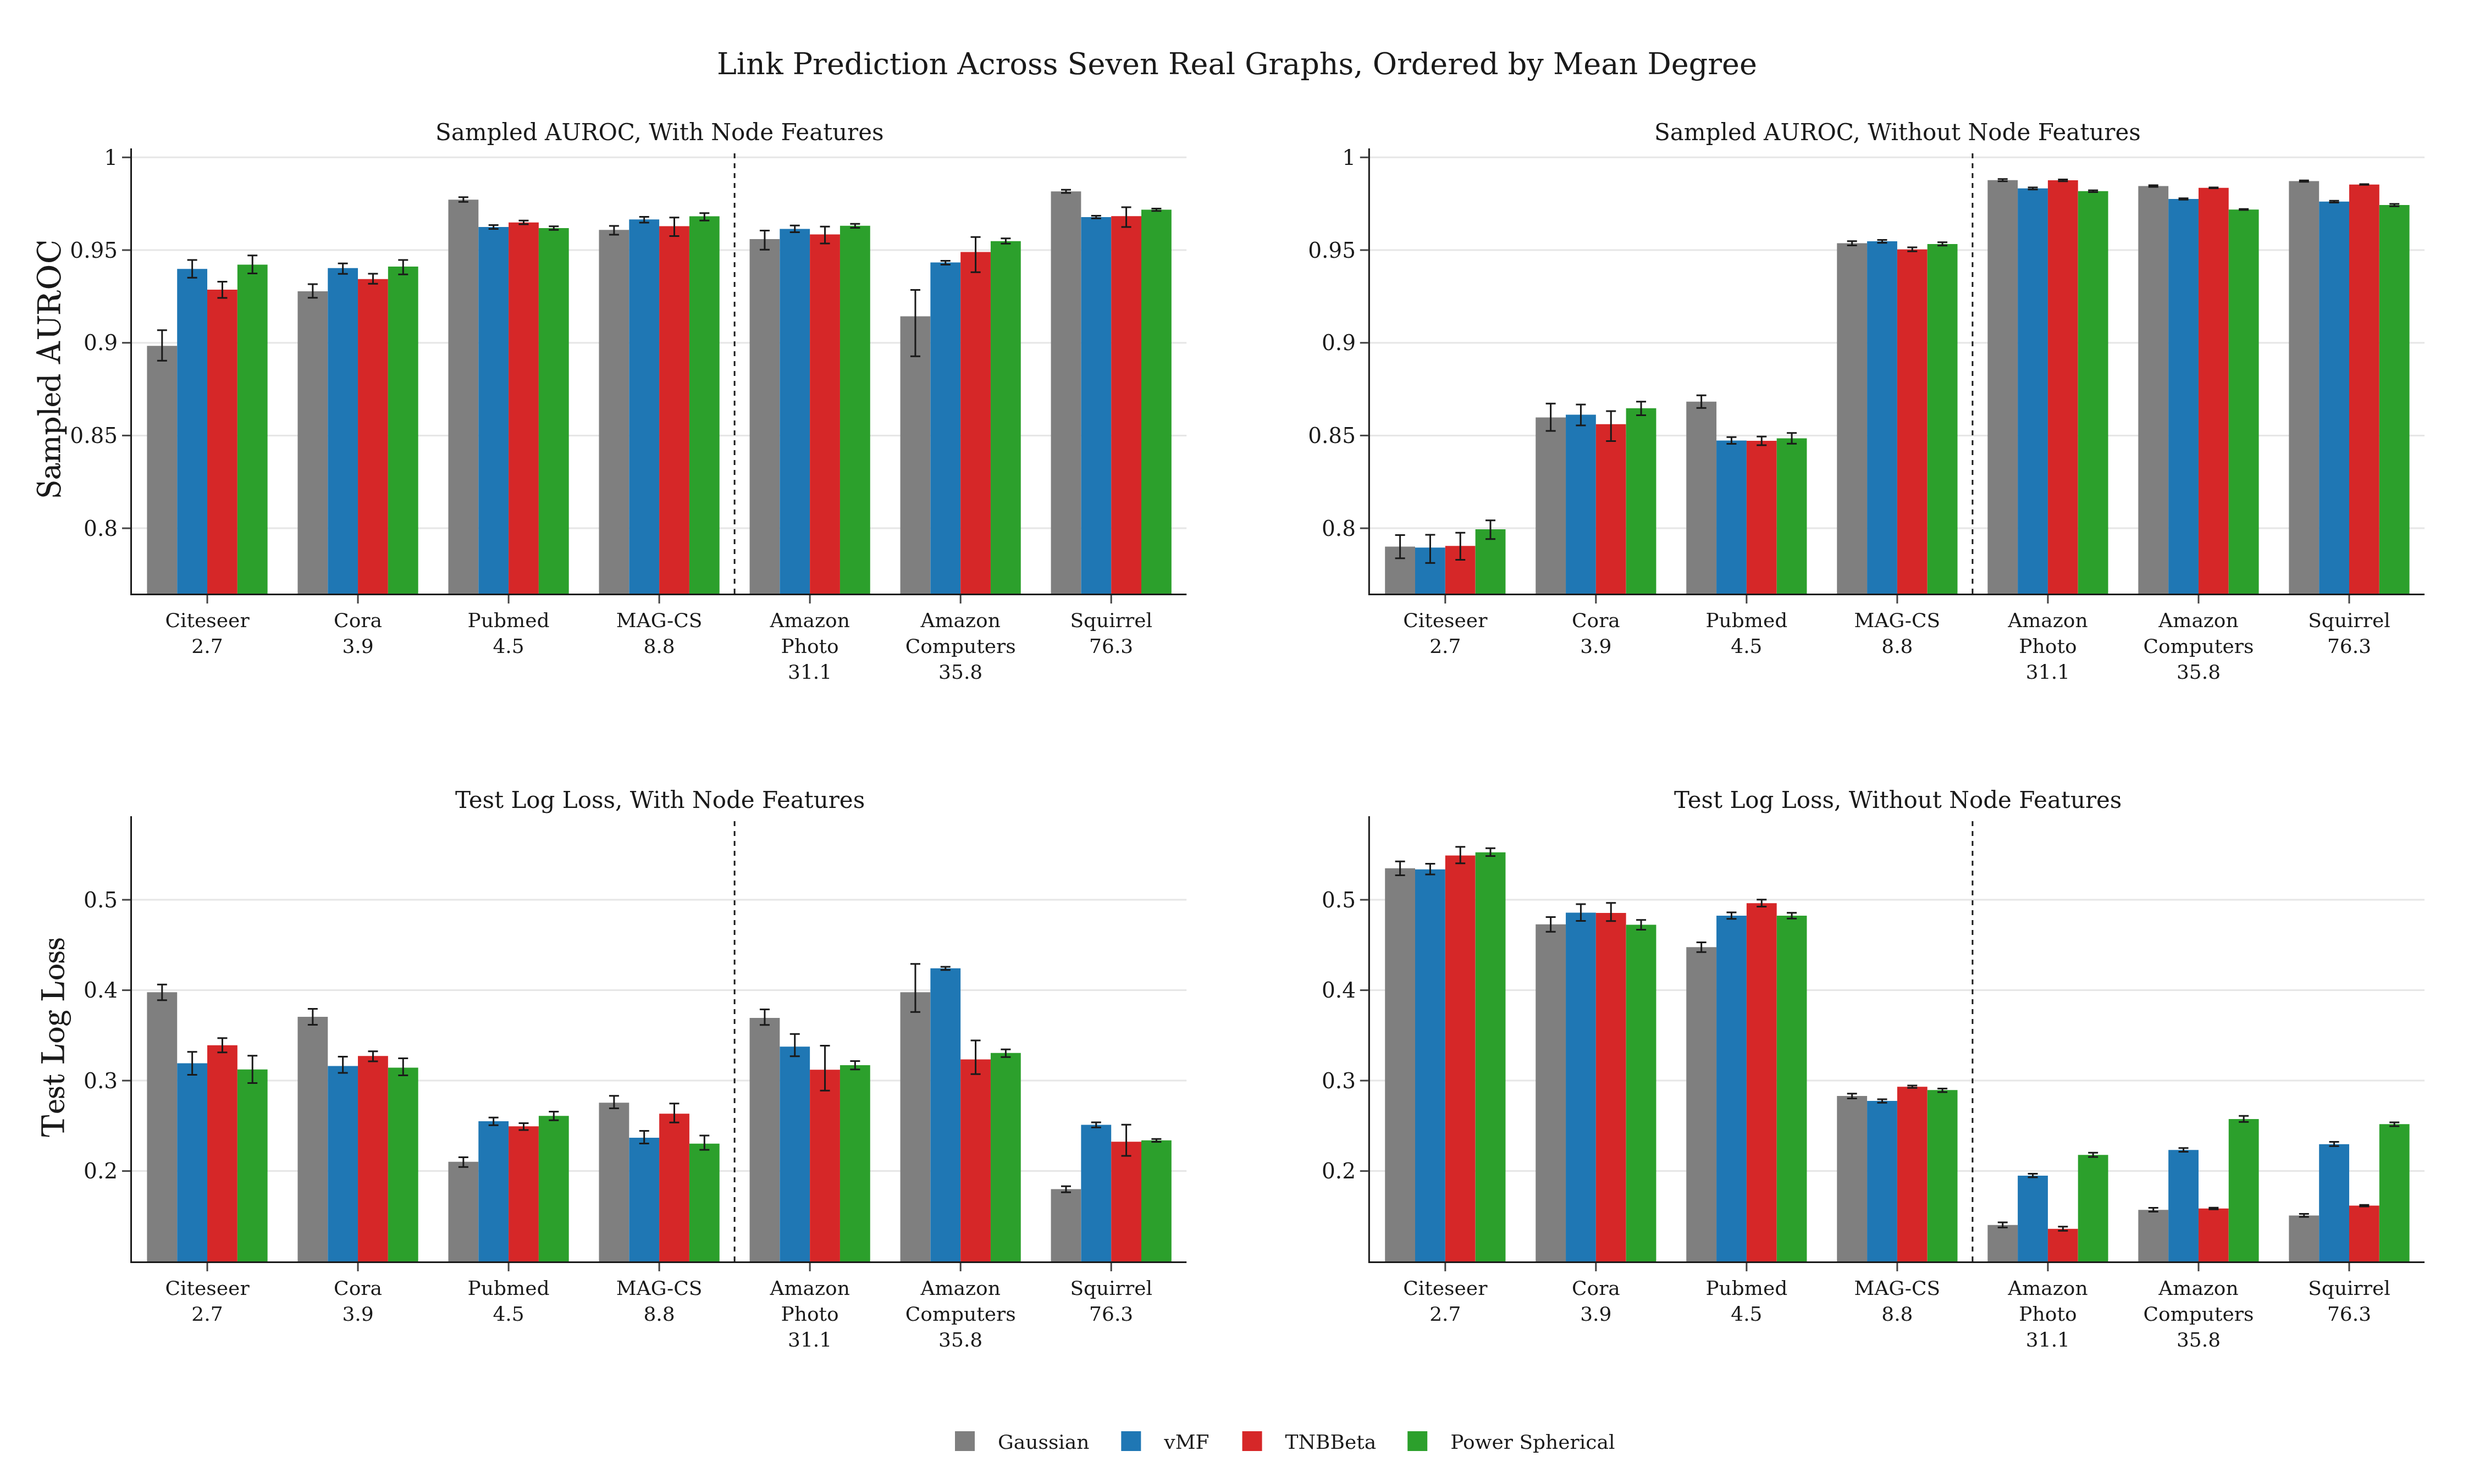
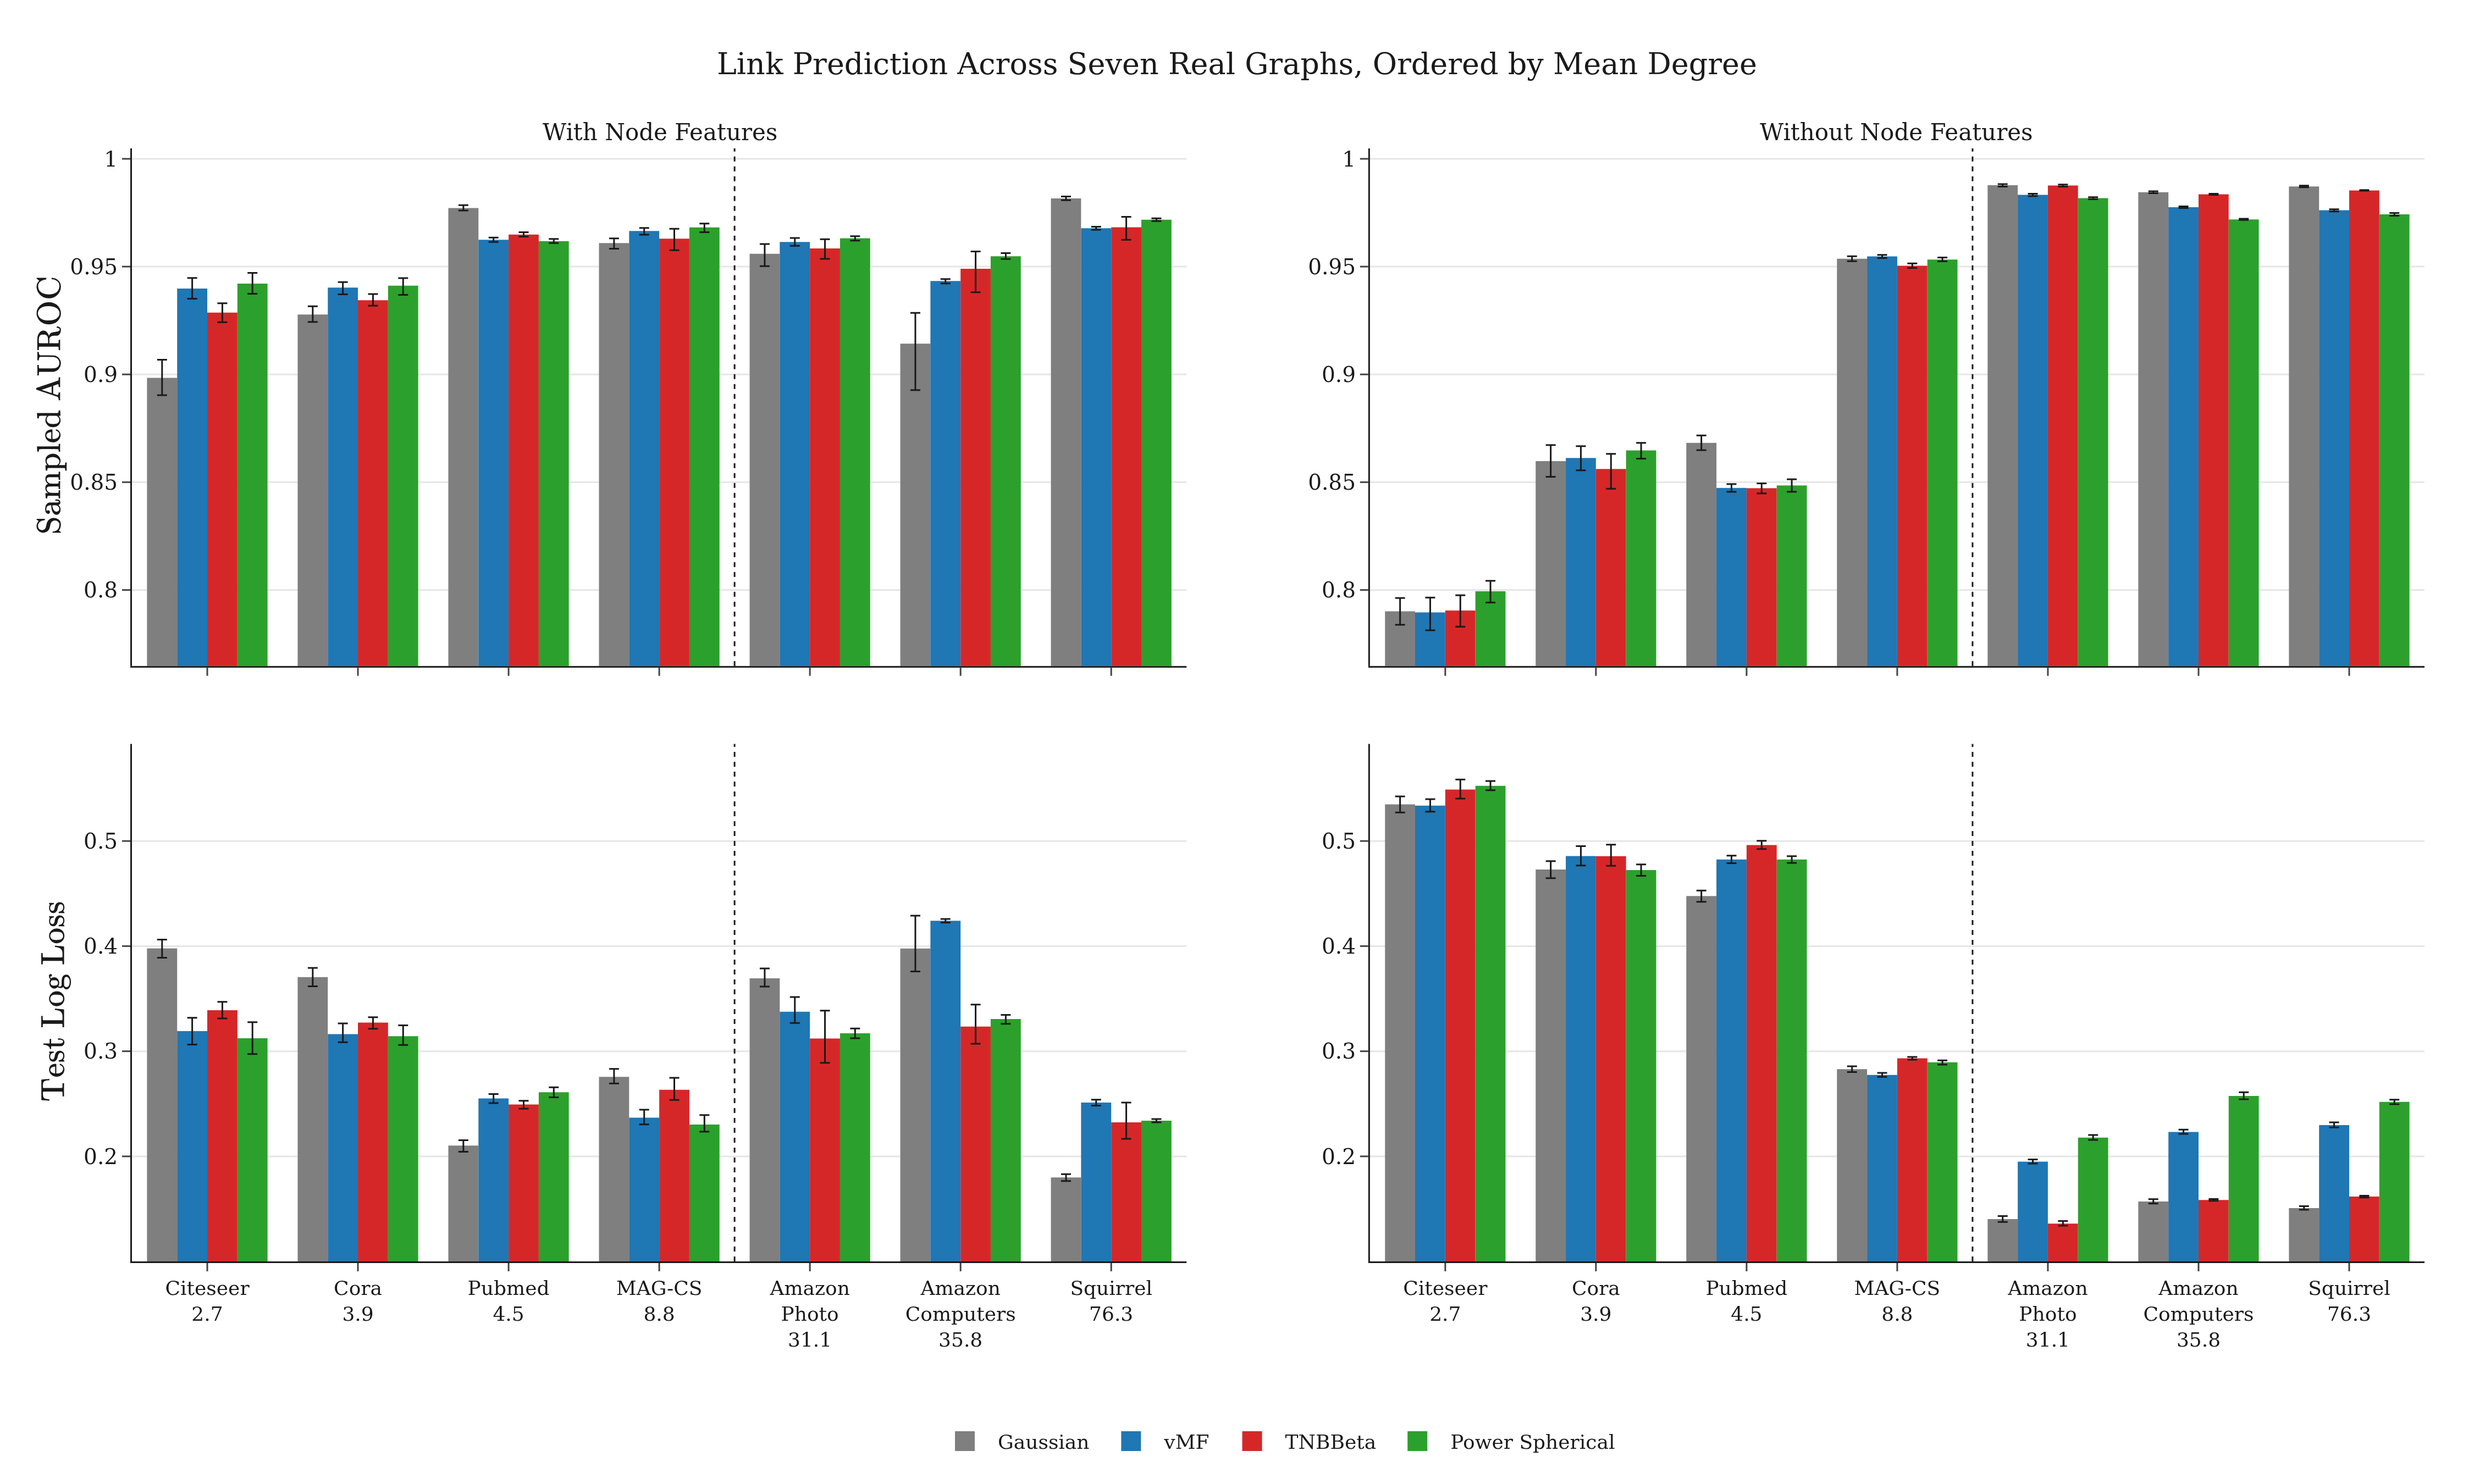
Combined bars: column titles, x labels on the bottom row only

diff --git a/apps/real_graph/combined_bars.py b/apps/real_graph/combined_bars.py
@@ -87,11 +87,9 @@ def build_figure(cells: dict[str, Any]) -> go.Figure:
     figure = make_subplots(
         rows=2,
         cols=2,
-        subplot_titles=[
-            f"{label}, {FEATURE_TITLES[f]}" for _, label in METRICS for f in FEATURES
-        ],
+        column_titles=[FEATURE_TITLES[f] for f in FEATURES],
         horizontal_spacing=0.08,
-        vertical_spacing=0.2,
+        vertical_spacing=0.07,
     )
     for row, (metric, label) in enumerate(METRICS, start=1):
         row_lows, row_highs = [], []
@@ -151,6 +149,7 @@ def build_figure(cells: dict[str, Any]) -> go.Figure:
     figure.update_xaxes(
         showline=True, linecolor=INK, ticks="outside", tickangle=0, tickfont_size=12
     )
+    figure.update_xaxes(showticklabels=False, row=1)
     figure.update_yaxes(showline=True, linecolor=INK, gridcolor=GRID, ticks="outside")
     split = sum(MEAN_DEGREE[d] < DENSE_FROM for d in datasets) - 0.5
     for row in (1, 2):
